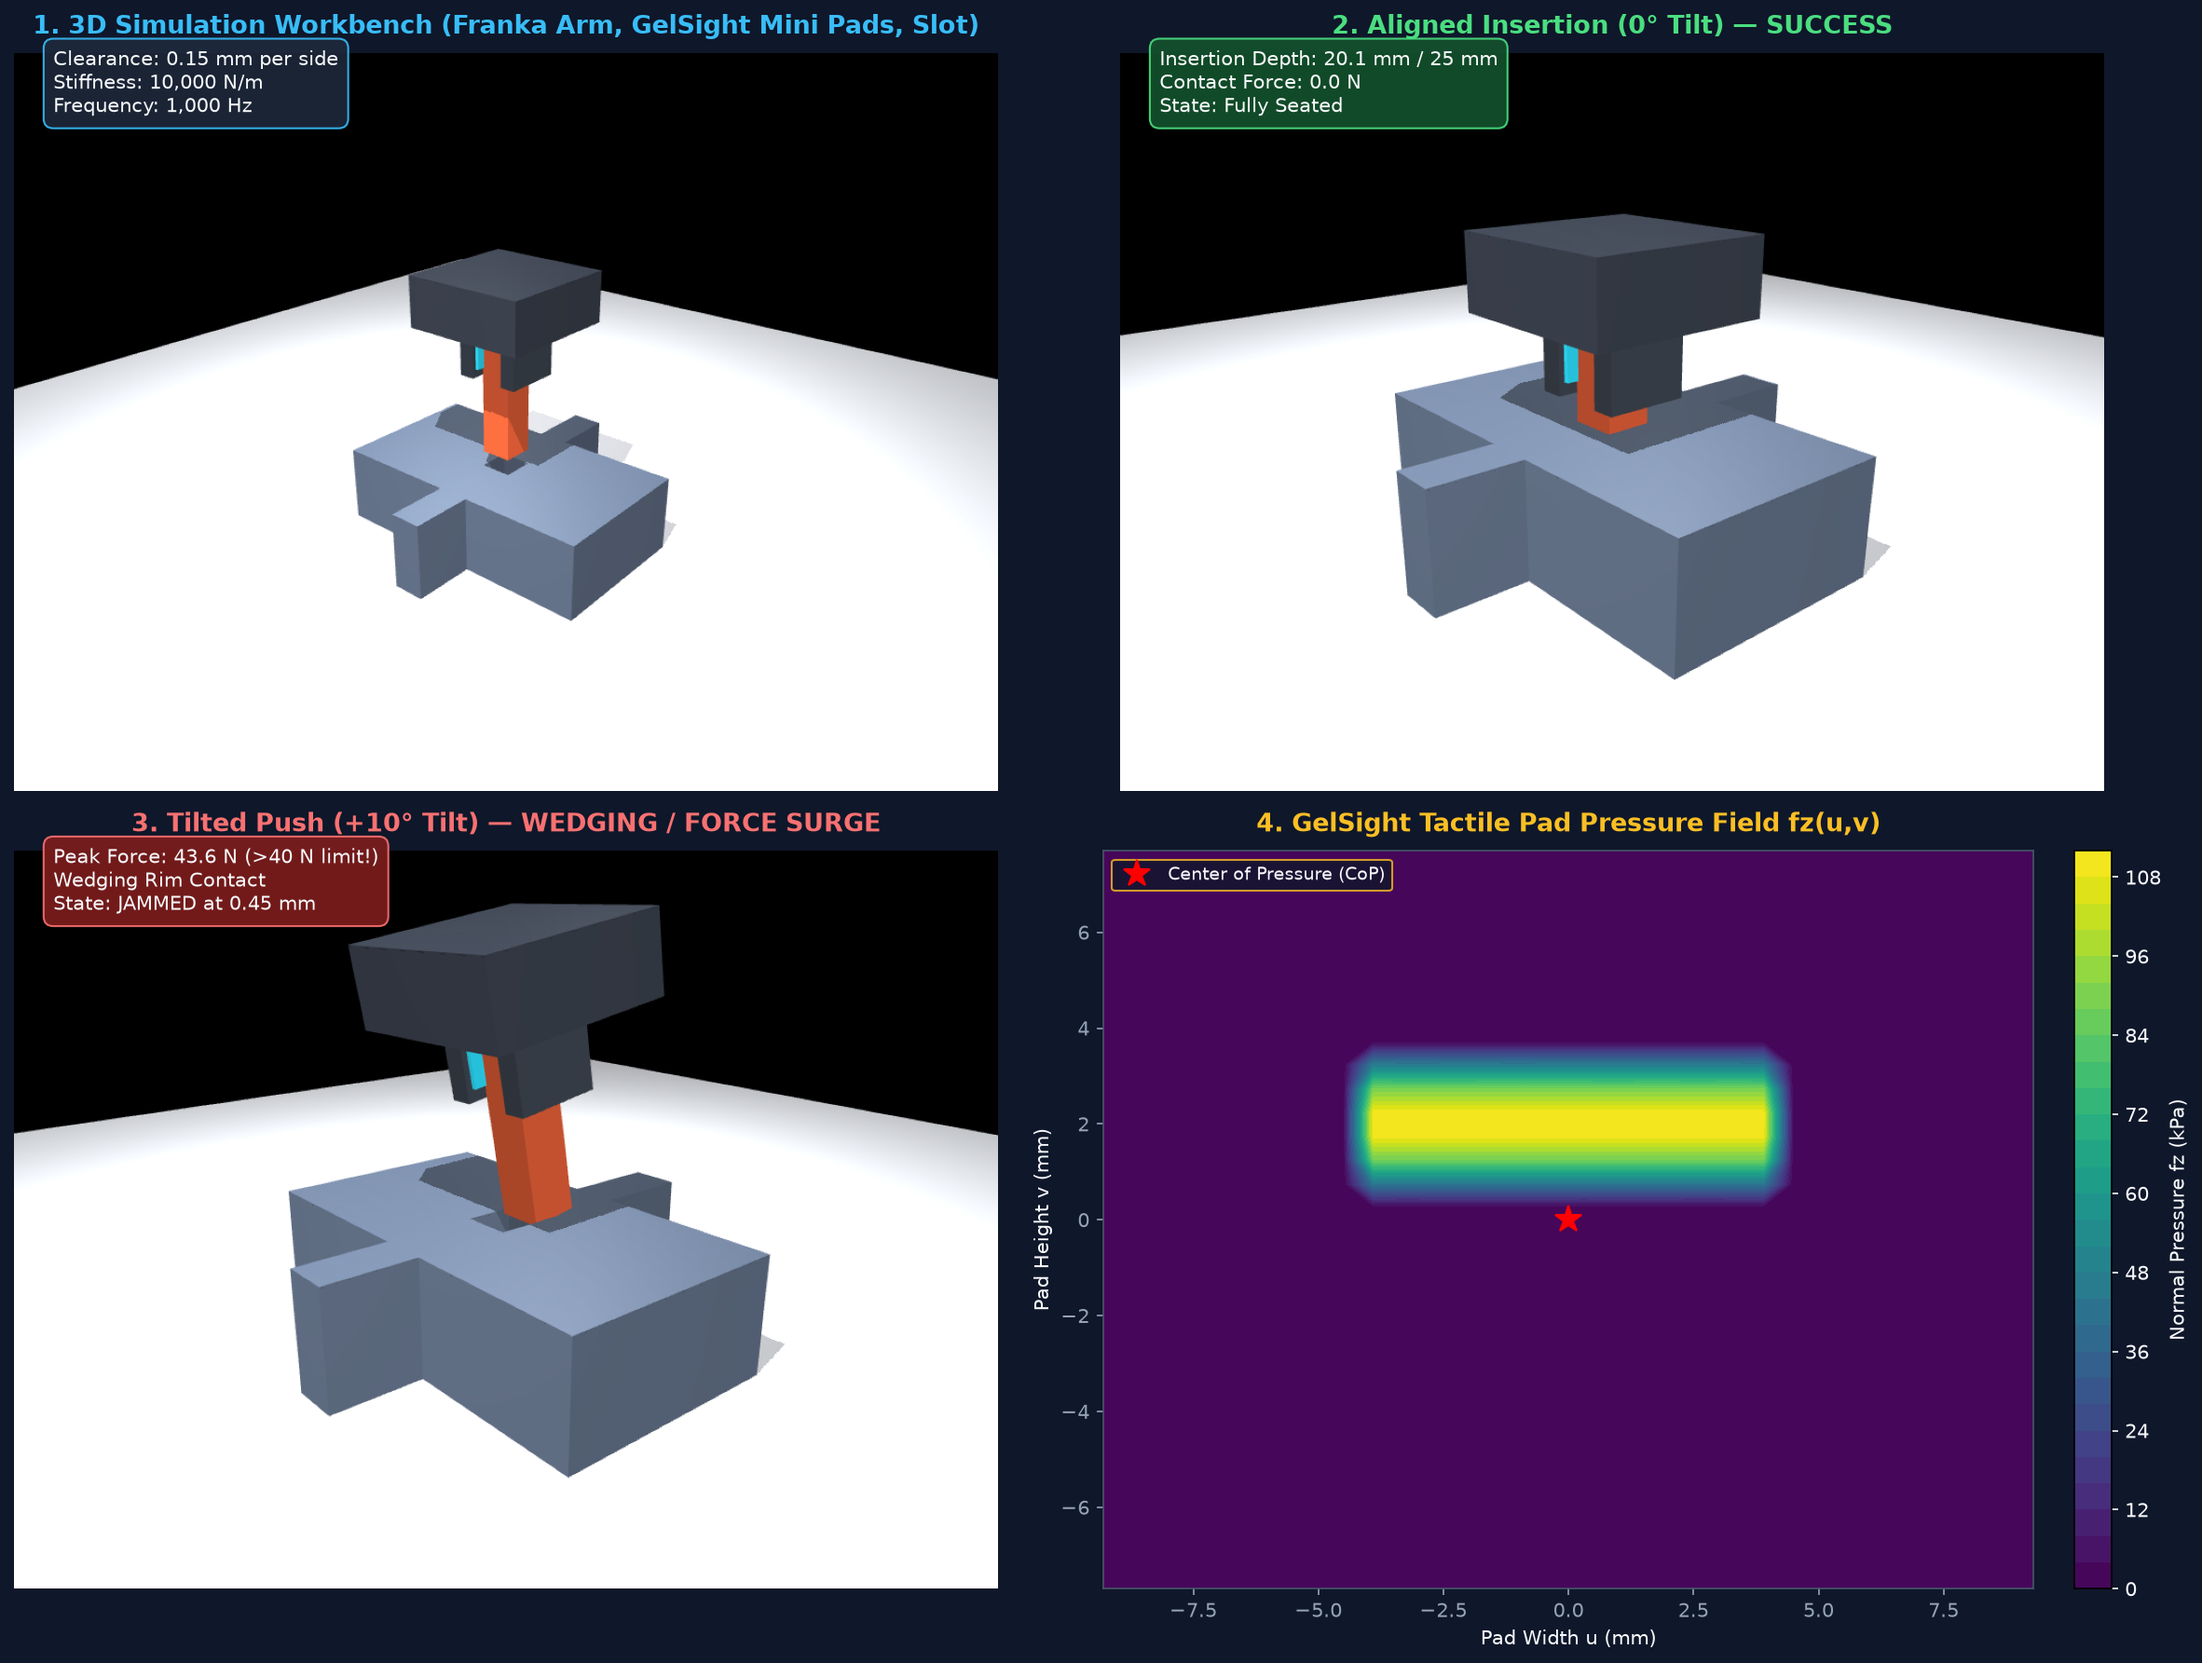
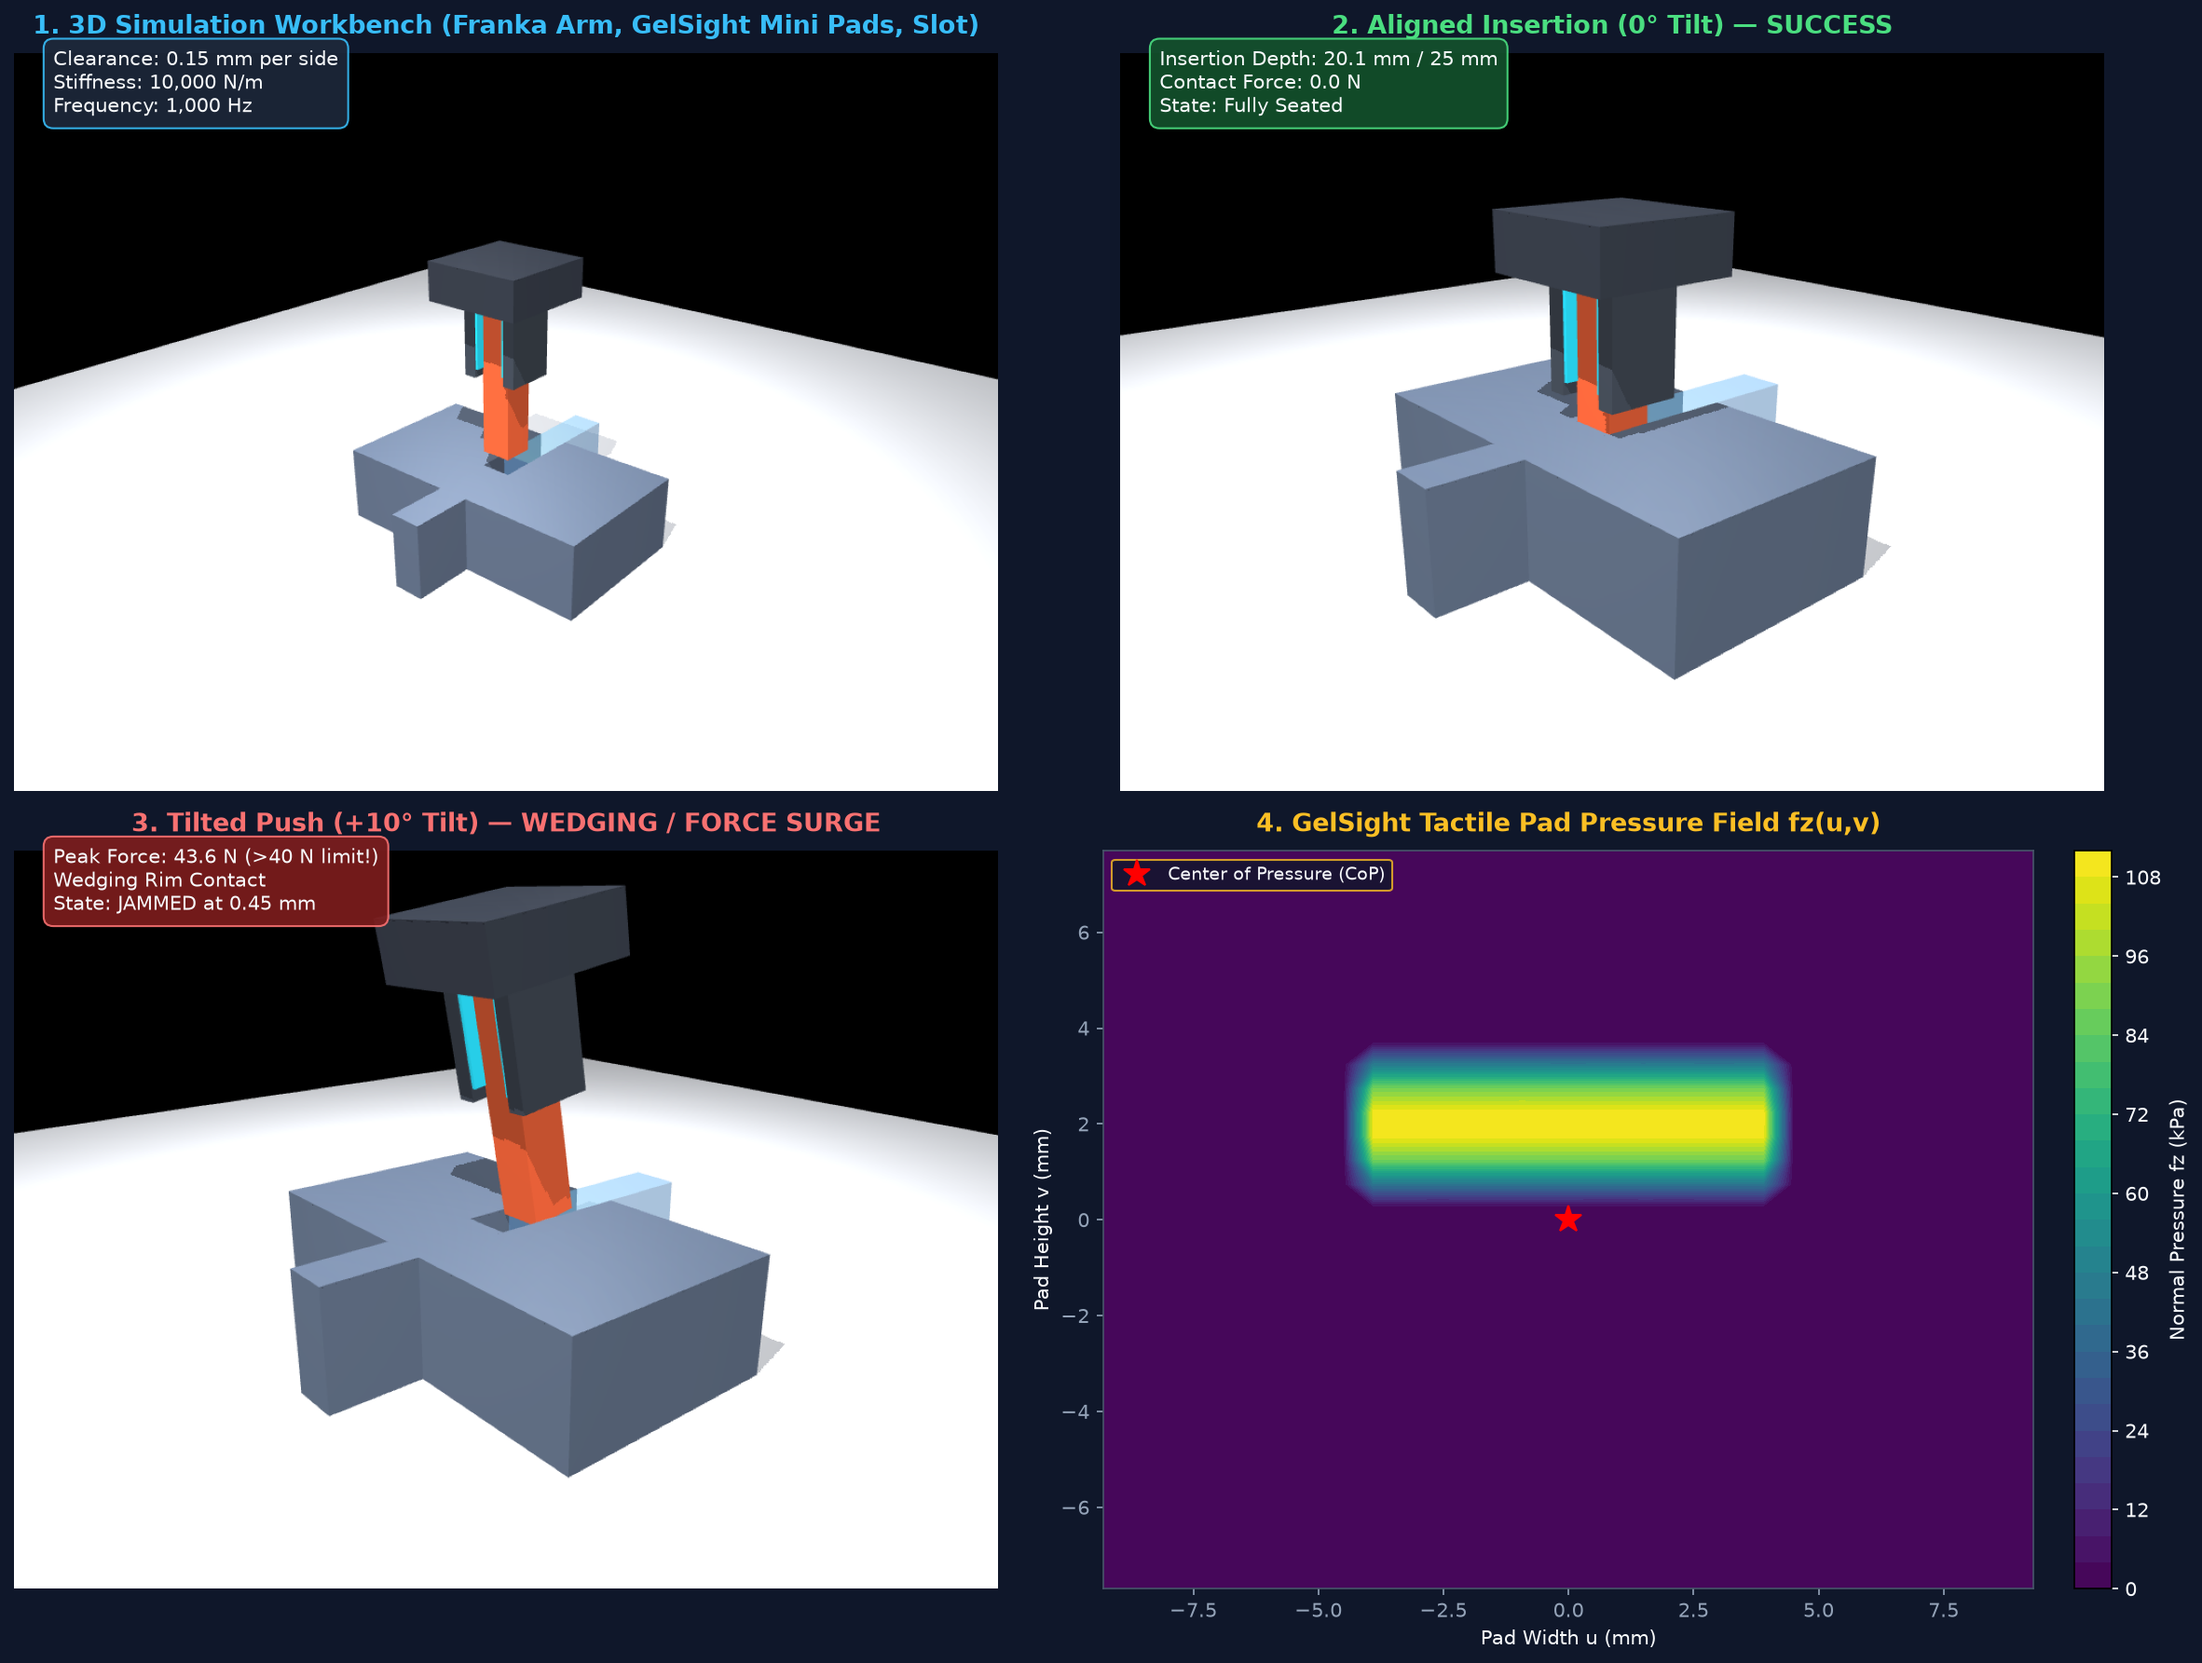
feat: add transparent acrylic slot wall, closeup camera, and cyclic trajectory animation

diff --git a/scripts/visualize_interactive_3d.py b/scripts/visualize_interactive_3d.py
@@ -1,15 +1,15 @@
 """
 Interactive 3D Simulation Viewer for TactAI.
-Launches the native MuJoCo Simulate GUI on the main thread for full interactive 3D rendering.
+Launches the native MuJoCo Simulate GUI with smooth animated insertion cycles.
 
 Controls:
-- Left Mouse Drag:         Rotate 3D camera
-- Right Mouse Drag / Scroll: Zoom in/out
-- Middle Mouse Drag:       Pan camera
-- Double Click:            Select body
-- Ctrl + Right Drag:       Apply external 3D force directly on peg or gripper
-- Spacebar:                Pause / resume physics
-- Backspace:               Reset simulation
+- Left Mouse Drag:           Rotate 3D camera
+- Right Mouse Drag / Scroll: Zoom in / out
+- Middle Mouse Drag:         Pan camera
+- Tab:                       Switch to closeup camera angle
+- Ctrl + Right Mouse Drag:   Grab and pull peg / robot with 3D force
+- Spacebar:                  Pause / resume simulation
+- Backspace:                 Reset simulation
 """
 
 import os
@@ -28,7 +28,7 @@ def main():
     parser = argparse.ArgumentParser(description="TactAI 3D Interactive Viewer")
     parser.add_argument("--tilt", type=float, default=10.0, help="Initial tilt in degrees (default: 10.0 deg)")
     parser.add_argument("--offset", type=float, default=0.0, help="Initial lateral offset in mm (default: 0.0 mm)")
-    parser.add_argument("--aligned", action="store_true", help="Launch in aligned mode (0 deg tilt)")
+    parser.add_argument("--aligned", action="store_true", help="Run aligned insertion (0 deg tilt)")
     args = parser.parse_args()
 
     tilt_deg = 0.0 if args.aligned else args.tilt
@@ -38,30 +38,51 @@ def main():
     obs, info = env.reset(ood_tilt_deg=(tilt_deg, 0.0), ood_offset_mm=(offset_mm, 0.0))
 
     print("=" * 70)
-    print("  TACTAI: INTERACTIVE 3D MUJOCO SIMULATE GUI")
+    print("  TACTAI: INTERACTIVE 3D MUJOCO SIMULATOR")
     print("=" * 70)
-    print(f"  Mode:       {'ALIGNED' if tilt_deg == 0.0 else f'MISALIGNED (+{tilt_deg}° Tilt)'}")
-    print(f"  Clearance:  {env.slot_clearance * 1e3:.2f} mm per side")
+    print(f"  Mode:       {'ALIGNED (0° Tilt)' if tilt_deg == 0.0 else f'MISALIGNED (+{tilt_deg}° Tilt)'}")
+    print(f"  Clearance:  {env.slot_clearance * 1e3:.2f} mm per side (0.30 mm total clearance)")
     print(f"  Stiffness:  {env.stiffness_env:.0f} N/m")
     print("=" * 70)
-    print("Controls:")
+    print("Controls in 3D Window:")
     print("  - Left click + drag:         Rotate 3D camera")
-    print("  - Right click + drag:        Zoom in/out (or scroll wheel)")
-    print("  - Middle click + drag:       Pan camera")
-    print("  - Double click body:         Select body")
-    print("  - Ctrl + Right click + drag: Apply external 3D perturbation force")
-    print("  - Space:                     Pause / Play simulation")
-    print("  - Backspace:                 Reset simulation state")
+    print("  - Right click + drag:        Zoom camera in/out (or scroll wheel)")
+    print("  - Center click + drag:       Pan camera")
+    print("  - Tab:                       Switch between Free Cam and Closeup Cam")
+    print("  - Ctrl + Right click + drag: Apply external 3D force with mouse")
+    print("  - Spacebar:                  Pause / Resume physics")
     print("=" * 70)
 
-    # Controller callback called at every physics step by the viewer
+    # Smooth cyclic insertion controller
+    cycle_period = 6.0  # seconds per complete cycle
+
     def controller(m, d):
-        # Downward push command on Z axis
-        d.ctrl[2] = -8.0
+        t = d.time % cycle_period
+
+        # Target vertical trajectory relative to base starting height
+        if t < 1.5:
+            # Phase 1: Smooth approach downwards
+            s = t / 1.5
+            z_des = -0.010 * s
+            vz_des = -0.010 / 1.5
+            # PD position control
+            d.ctrl[2] = 200.0 * (z_des - d.qpos[2]) + 20.0 * (vz_des - d.qvel[2])
+        elif t < 3.5:
+            # Phase 2: Insertion push
+            # Downward constant force of -8 N (pushes into slot or wedges against rim)
+            d.ctrl[2] = -8.0
+        elif t < 4.5:
+            # Phase 3: Hold and observe contact state
+            d.ctrl[2] = 0.0
+        else:
+            # Phase 4: Smooth retract back up to ready pose
+            s = (t - 4.5) / 1.5
+            z_des = -0.020 * (1.0 - s)
+            vz_des = 0.020 / 1.5
+            d.ctrl[2] = 200.0 * (z_des - d.qpos[2]) + 20.0 * (vz_des - d.qvel[2])
 
     mujoco.set_mjcb_control(controller)
 
-    # Launch full interactive Simulate GUI on main thread
     try:
         mujoco.viewer.launch(env.model, env.data)
     finally:

diff --git a/src/envs/franka_slot_env.py b/src/envs/franka_slot_env.py
@@ -124,9 +124,9 @@ class FrankaSlotEnv:
     <!-- Back wall -->
     <geom name='wall_back' type='box' size='{self.slot_half_w} {wall_thick} {wall_h}' 
           pos='0 {-wall_thick - self.slot_half_d} {wall_h}' rgba='0.35 0.4 0.48 1'/>
-    <!-- Front wall -->
+    <!-- Front wall (Transparent acrylic to see inside cavity) -->
     <geom name='wall_front' type='box' size='{self.slot_half_w} {wall_thick} {wall_h}' 
-          pos='0 {wall_thick + self.slot_half_d} {wall_h}' rgba='0.35 0.4 0.48 1'/>
+          pos='0 {wall_thick + self.slot_half_d} {wall_h}' rgba='0.35 0.55 0.75 0.30'/>
 
     <!-- 6-DoF End-Effector Base (Franka Panda wrist + gripper mass ~ 2.5 kg) -->
     <body name='ee_base' pos='0 0 0.080'>
@@ -136,13 +136,13 @@ class FrankaSlotEnv:
       <joint name='hinge_rx' type='hinge' axis='1 0 0' damping='1.5'/>
       <joint name='hinge_ry' type='hinge' axis='0 1 0' damping='1.5'/>
       <joint name='hinge_rz' type='hinge' axis='0 0 1' damping='1.5'/>
-      <geom name='ee_gripper' type='box' size='0.02 0.02 0.008' mass='2.5' rgba='0.2 0.22 0.26 1'/>
+      <geom name='ee_gripper' type='box' size='0.016 0.016 0.006' pos='0 0 0.006' mass='2.5' rgba='0.2 0.22 0.26 1'/>
       
       <!-- Visual Gripper Fingers & GelSight Mini Tactile Pads -->
-      <geom name='vis_finger_left' type='box' size='0.0025 0.009 0.012' pos='-0.008 0 -0.012' contype='0' conaffinity='0' rgba='0.25 0.28 0.32 1'/>
-      <geom name='vis_gelsight_left' type='box' size='0.001 0.0077 0.0093' pos='-0.0055 0 -0.012' contype='0' conaffinity='0' rgba='0.15 0.75 0.85 0.9'/>
-      <geom name='vis_finger_right' type='box' size='0.0025 0.009 0.012' pos='0.008 0 -0.012' contype='0' conaffinity='0' rgba='0.25 0.28 0.32 1'/>
-      <geom name='vis_gelsight_right' type='box' size='0.001 0.0077 0.0093' pos='0.0055 0 -0.012' contype='0' conaffinity='0' rgba='0.15 0.75 0.85 0.9'/>
+      <geom name='vis_finger_left' type='box' size='0.002 0.008 0.012' pos='-0.0075 0 -0.012' contype='0' conaffinity='0' rgba='0.25 0.28 0.32 1'/>
+      <geom name='vis_gelsight_left' type='box' size='0.0008 0.0077 0.0093' pos='-0.0055 0 -0.012' contype='0' conaffinity='0' rgba='0.15 0.80 0.90 0.95'/>
+      <geom name='vis_finger_right' type='box' size='0.002 0.008 0.012' pos='0.0075 0 -0.012' contype='0' conaffinity='0' rgba='0.25 0.28 0.32 1'/>
+      <geom name='vis_gelsight_right' type='box' size='0.0008 0.0077 0.0093' pos='0.0055 0 -0.012' contype='0' conaffinity='0' rgba='0.15 0.80 0.90 0.95'/>
 
       <!-- Peg compliantly held between tactile elastomer pads -->
       <body name='peg' pos='0 0 -0.025'>
